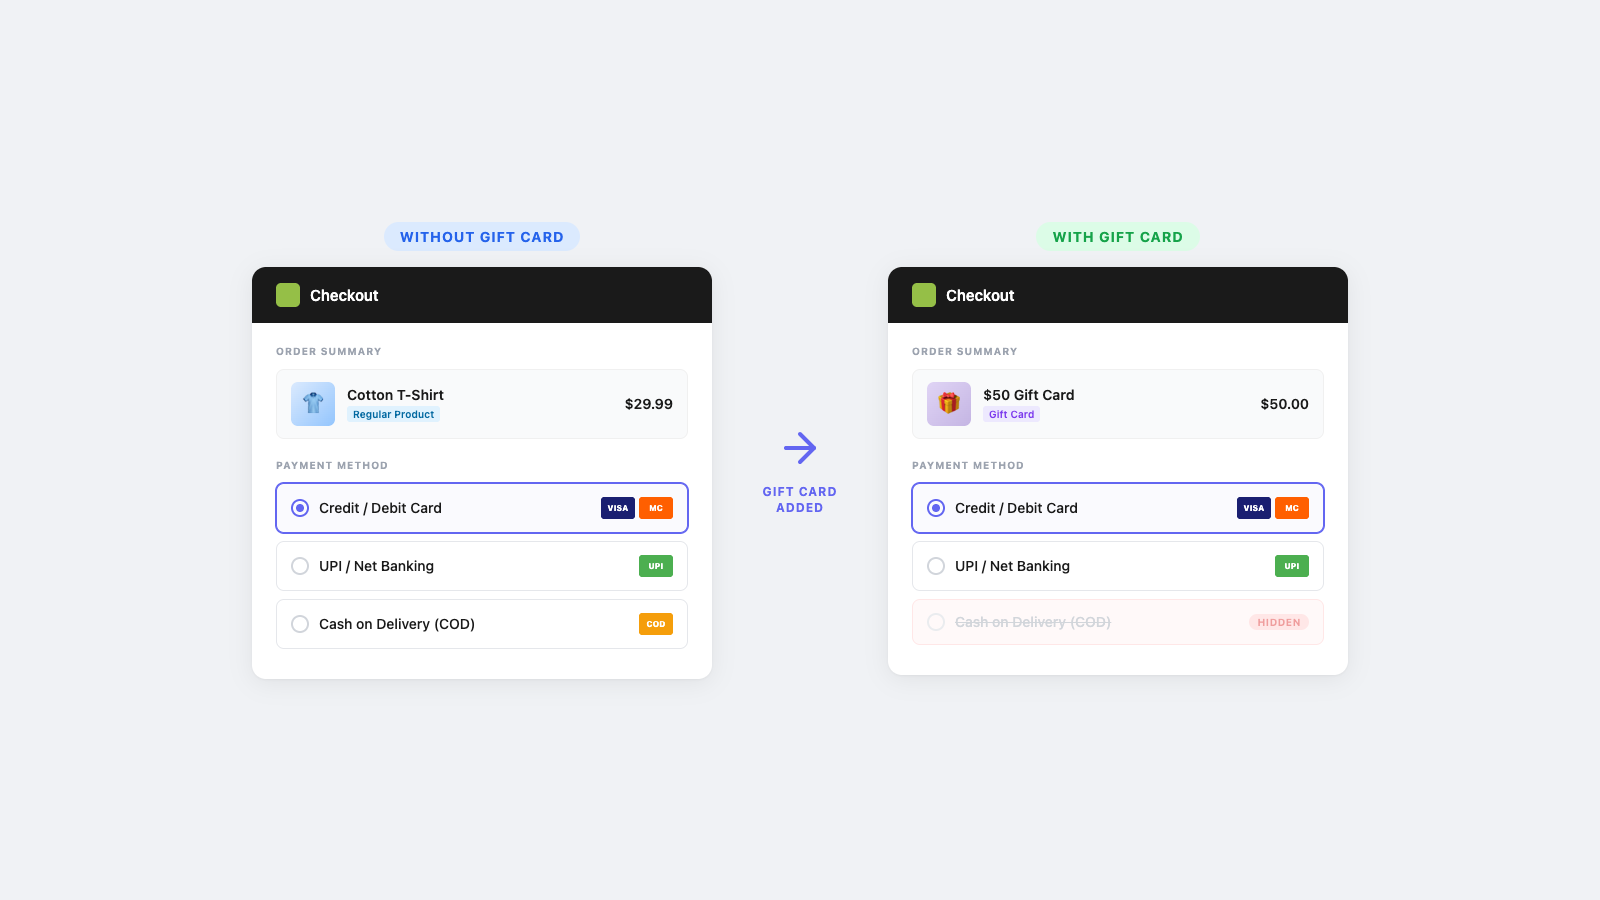
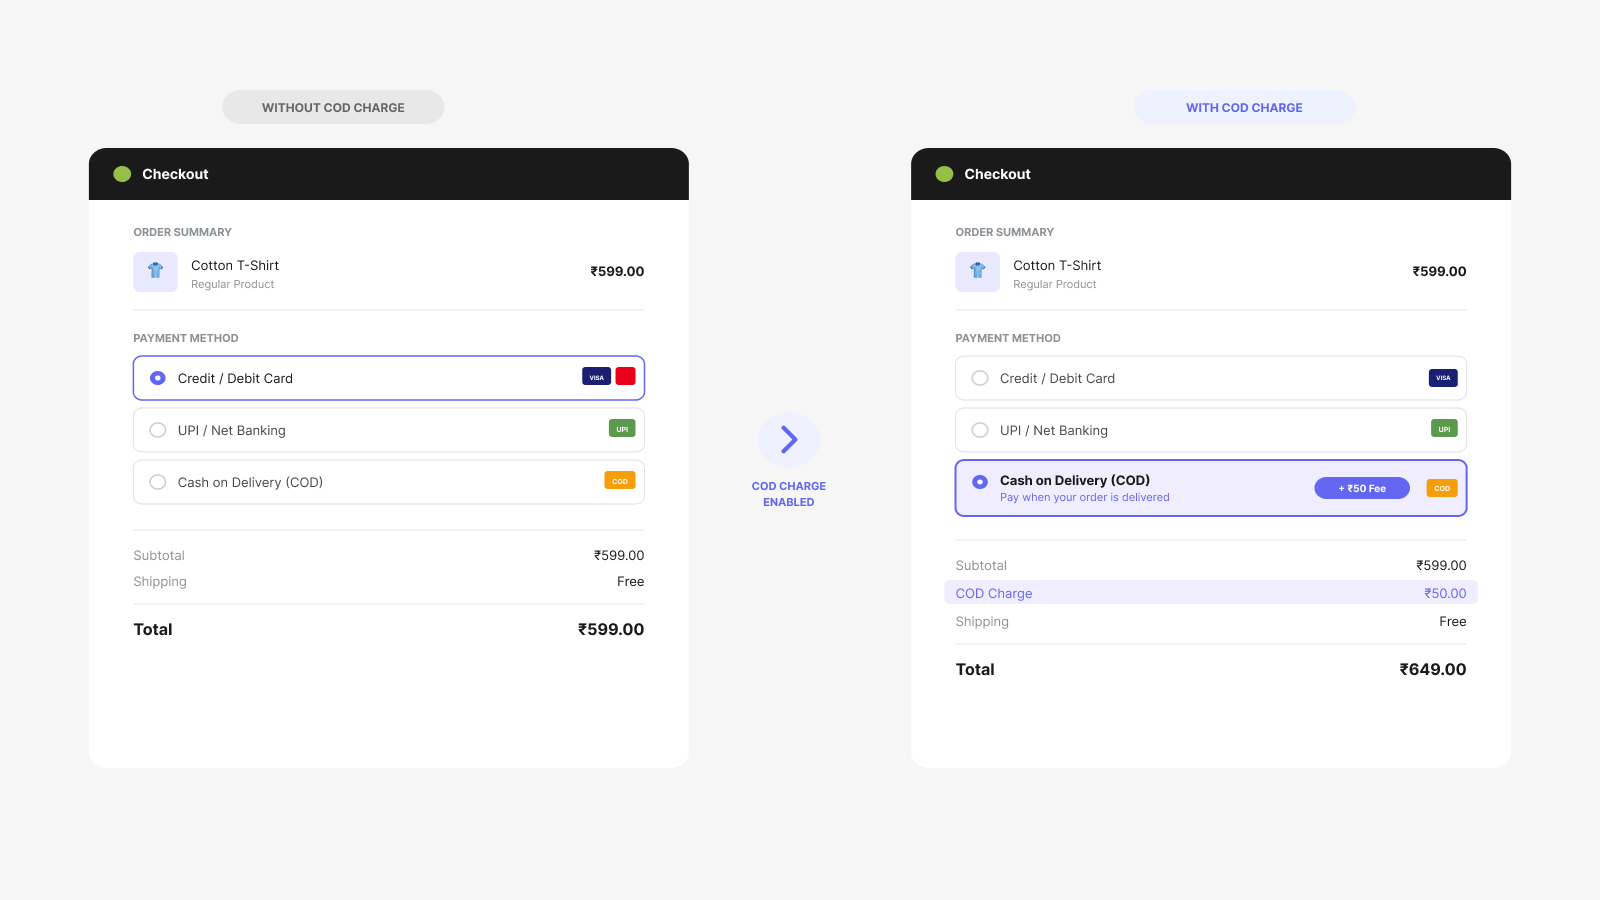
Rename 'COD Charge' to 'COD Fee Manager'
Rebrand the app from "COD Charge" to "COD Fee Manager" across UI, server routes, extensions, tests, and manifests. Updated visible strings (titles, banners, labels, messages), extension and app TOML names, activation script, and payment-function output (uses “COD Fee”). Webhook and findFunction logic were made backward-compatible by checking for both the new and old titles. Replaced/added image assets (feature image removed, new feature image and logo added) and updated screenshots.

diff --git a/app/routes/app._index.tsx b/app/routes/app._index.tsx
@@ -276,7 +276,7 @@ async function ensureCODProduct(admin: any, chargeAmount: number) {
 	const createResponse = await admin.graphql(PRODUCT_CREATE, {
 		variables: {
 			product: {
-				title: 'COD Charge',
+				title: 'COD Fee Manager',
 				productType: 'fee',
 				status: 'ACTIVE',
 			},
@@ -288,7 +288,7 @@ async function ensureCODProduct(admin: any, chargeAmount: number) {
 	if (!product) {
 		const errors = createData.data?.productCreate?.userErrors ?? [];
 		throw new Error(
-			`Failed to create COD Charge product: ${errors.map((e: any) => e.message).join(', ')}`,
+			`Failed to create COD Fee Manager product: ${errors.map((e: any) => e.message).join(', ')}`,
 		);
 	}
 
@@ -377,7 +377,7 @@ async function findFunction(admin: any) {
 	const functionsResponse = await admin.graphql(SHOPIFY_FUNCTIONS_QUERY);
 	const functionsData = await functionsResponse.json();
 	const functions = functionsData.data?.shopifyFunctions?.nodes ?? [];
-	return functions.find((fn: any) => fn.title === 'COD Charge');
+	return functions.find((fn: any) => fn.title === 'COD Fee Manager' || fn.title === 'COD Charge');
 }
 
 async function findExistingCustomization(admin: any, functionId: string) {
@@ -400,7 +400,7 @@ export const loader = async ({ request }: LoaderFunctionArgs) => {
 			enabled: false,
 			amount: '',
 			message:
-				'Could not find the COD Charge function. Make sure the extension is deployed.',
+				'Could not find the COD Fee Manager function. Make sure the extension is deployed.',
 		});
 	}
 
@@ -412,7 +412,7 @@ export const loader = async ({ request }: LoaderFunctionArgs) => {
 			enabled: false,
 			amount: '',
 			message:
-				'COD Charge has not been activated yet. Set a charge amount and click Activate.',
+				'COD Fee Manager has not been activated yet. Set a charge amount and click Activate.',
 		});
 	}
 
@@ -427,7 +427,7 @@ export const loader = async ({ request }: LoaderFunctionArgs) => {
 			enabled: false,
 			amount,
 			message:
-				'COD Charge exists but is currently disabled. Click Activate to enable it.',
+				'COD Fee Manager exists but is currently disabled. Click Activate to enable it.',
 		});
 	}
 
@@ -442,7 +442,7 @@ export const loader = async ({ request }: LoaderFunctionArgs) => {
 				status: 'active' as const,
 				enabled: true,
 				amount,
-				message: `COD Charge is active but the product was deleted. Click Save to recreate it.`,
+				message: `COD Fee Manager is active but the product was deleted. Click Save to recreate it.`,
 				productMissing: true,
 			});
 		}
@@ -452,7 +452,7 @@ export const loader = async ({ request }: LoaderFunctionArgs) => {
 		status: 'active' as const,
 		enabled: true,
 		amount,
-		message: `COD Charge is active. ₹${amount} will be shown at checkout and automatically added to orders placed with Cash on Delivery.`,
+		message: `COD Fee Manager is active. ₹${amount} will be shown at checkout and automatically added to orders placed with Cash on Delivery.`,
 	});
 };
 
@@ -470,7 +470,7 @@ export const action = async ({ request }: ActionFunctionArgs) => {
 				enabled: false,
 				amount: '',
 				message:
-					'Could not find the COD Charge function. Deploy the extension first.',
+					'Could not find the COD Fee Manager function. Deploy the extension first.',
 			});
 		}
 
@@ -496,7 +496,7 @@ export const action = async ({ request }: ActionFunctionArgs) => {
 						variables: {
 							paymentCustomization: {
 								functionId: ourFunction.id,
-								title: 'COD Charge',
+								title: 'COD Fee Manager',
 								enabled: true,
 								metafields: [
 									{
@@ -525,7 +525,7 @@ export const action = async ({ request }: ActionFunctionArgs) => {
 					status: 'active' as const,
 					enabled: true,
 					amount: String(chargeAmount),
-					message: `COD Charge activated successfully. Charge: ₹${chargeAmount}`,
+					message: `COD Fee Manager activated successfully. Charge: ₹${chargeAmount}`,
 				});
 			}
 
@@ -560,7 +560,7 @@ export const action = async ({ request }: ActionFunctionArgs) => {
 				status: 'active' as const,
 				enabled: true,
 				amount: String(chargeAmount),
-				message: `COD Charge updated and enabled. Charge: ₹${chargeAmount}`,
+				message: `COD Fee Manager updated and enabled. Charge: ₹${chargeAmount}`,
 			});
 		}
 
@@ -593,7 +593,7 @@ export const action = async ({ request }: ActionFunctionArgs) => {
 				status: 'disabled' as const,
 				enabled: false,
 				amount: amountMetafield?.value ?? '',
-				message: 'COD Charge has been disabled.',
+				message: 'COD Fee Manager has been disabled.',
 			});
 		}
 
@@ -658,7 +658,7 @@ export default function Index() {
 
 	return (
 		<Page>
-			<TitleBar title="COD Charge" />
+			<TitleBar title="COD Fee Manager" />
 			<BlockStack gap="500">
 				<Layout>
 					<Layout.Section>
@@ -666,7 +666,7 @@ export default function Index() {
 							<BlockStack gap="400">
 								<InlineStack align="space-between" blockAlign="center">
 									<Text as="h2" variant="headingMd">
-										COD Charge Settings
+										COD Fee Manager Settings
 									</Text>
 									<Badge
 										tone={
@@ -704,7 +704,7 @@ export default function Index() {
 								{status !== 'not_deployed' && (
 									<FormLayout>
 										<TextField
-											label="COD Charge Amount (₹)"
+											label="COD Fee Amount (₹)"
 											type="number"
 											value={amount}
 											onChange={handleAmountChange}

diff --git a/app/routes/webhooks.orders.create.tsx b/app/routes/webhooks.orders.create.tsx
@@ -154,11 +154,11 @@ export const action = async ({ request }: ActionFunctionArgs) => {
 
 		const lineItems = orderData.data?.order?.lineItems?.nodes ?? [];
 		const alreadyHasCodProduct = lineItems.some(
-			(item: any) => item.title === 'COD Charge',
+			(item: any) => item.title === 'COD Fee Manager' || item.title === 'COD Charge',
 		);
 		if (alreadyHasCodProduct) {
 			console.log(
-				`[COD-WEBHOOK] COD Charge product already in order line items, tagging only`,
+				`[COD-WEBHOOK] COD fee product already in order line items, tagging only`,
 			);
 			try {
 				await admin.graphql(TAGS_ADD, {
@@ -183,12 +183,12 @@ export const action = async ({ request }: ActionFunctionArgs) => {
 		);
 
 		const codCustomization = customizations.find(
-			(c: any) => c.title === 'COD Charge' && c.enabled,
+			(c: any) => (c.title === 'COD Fee Manager' || c.title === 'COD Charge') && c.enabled,
 		);
 
 		if (!codCustomization) {
 			console.log(
-				'[COD-WEBHOOK] BAIL: No active COD Charge customization found',
+				'[COD-WEBHOOK] BAIL: No active COD Fee Manager customization found',
 			);
 			return new Response();
 		}
@@ -259,7 +259,7 @@ export const action = async ({ request }: ActionFunctionArgs) => {
 		console.log('[COD-WEBHOOK] Step 4: Adding COD charge line item...');
 		const addItemVars = {
 			id: calculatedOrderId,
-			title: 'COD Charge',
+			title: 'COD Fee',
 			quantity: 1,
 			price: {
 				amount: String(chargeAmount),

diff --git a/extensions/cod-charge/src/run.test.js b/extensions/cod-charge/src/run.test.js
@@ -13,7 +13,7 @@ function makeInput({ amount, paymentMethods }) {
   };
 }
 
-describe("COD Charge", () => {
+describe("COD Fee Manager", () => {
   it("renames COD with the charge amount", () => {
     const result = run(makeInput({ amount: 50 }));
 
@@ -22,7 +22,7 @@ describe("COD Charge", () => {
         {
           rename: {
             paymentMethodId: "2",
-            name: "Cash on Delivery (+ ₹50 COD Charge)",
+            name: "Cash on Delivery (+ ₹50 COD Fee)",
           },
         },
       ],
@@ -37,7 +37,7 @@ describe("COD Charge", () => {
         {
           rename: {
             paymentMethodId: "2",
-            name: "Cash on Delivery (+ ₹49.99 COD Charge)",
+            name: "Cash on Delivery (+ ₹49.99 COD Fee)",
           },
         },
       ],
@@ -87,7 +87,7 @@ describe("COD Charge", () => {
         {
           rename: {
             paymentMethodId: "2",
-            name: "CASH ON DELIVERY (+ ₹50 COD Charge)",
+            name: "CASH ON DELIVERY (+ ₹50 COD Fee)",
           },
         },
       ],
@@ -110,7 +110,7 @@ describe("COD Charge", () => {
         {
           rename: {
             paymentMethodId: "2",
-            name: "COD (+ ₹100 COD Charge)",
+            name: "COD (+ ₹100 COD Fee)",
           },
         },
       ],

diff --git a/scripts/activate.js b/scripts/activate.js
@@ -1,7 +1,7 @@
 #!/usr/bin/env node
 
 /**
- * One-time script to activate the COD Charge payment customization.
+ * One-time script to activate the COD Fee Manager payment customization.
  *
  * Usage:
  *   SHOPIFY_ACCESS_TOKEN=<token> SHOPIFY_STORE=<store>.myshopify.com COD_AMOUNT=50 node scripts/activate.js
@@ -39,7 +39,7 @@ async function main() {
   console.log(`\nConnecting to ${STORE}...\n`);
 
   // Step 1: Find the function
-  console.log("Step 1: Finding the COD Charge function...");
+  console.log("Step 1: Finding the COD Fee Manager function...");
   const functionsResult = await graphql(`{
     shopifyFunctions(first: 25, apiType: "payment_customization") {
       nodes {
@@ -52,11 +52,11 @@ async function main() {
 
   const functions = functionsResult.data?.shopifyFunctions?.nodes ?? [];
   const ourFunction = functions.find(
-    (fn) => fn.title === "COD Charge",
+    (fn) => fn.title === "COD Fee Manager" || fn.title === "COD Charge",
   );
 
   if (!ourFunction) {
-    console.error("ERROR: Could not find the COD Charge function.");
+    console.error("ERROR: Could not find the COD Fee Manager function.");
     console.error("Available functions:", functions.map((f) => f.title));
     process.exit(1);
   }
@@ -133,7 +133,7 @@ async function main() {
     {
       input: {
         functionId: ourFunction.id,
-        title: "COD Charge",
+        title: "COD Fee Manager",
         enabled: true,
         metafields: [
           {

diff --git a/app/routes/privacy.tsx b/app/routes/privacy.tsx
@@ -4,13 +4,13 @@ export default function PrivacyPolicy() {
 			<div style={styles.container}>
 				<h1 style={styles.title}>Privacy Policy</h1>
 				<p style={styles.subtitle}>
-					<strong>COD Charge</strong> — operated by Mellow Muffin Apps
+					<strong>COD Fee Manager</strong> — operated by Mellow Muffin Apps
 				</p>
 				<p style={styles.updated}>Last updated: March 9, 2026</p>
 
 				<Section title="1. Introduction">
 					<p>
-						This Privacy Policy describes how COD Charge (&ldquo;the
+						This Privacy Policy describes how COD Fee Manager (&ldquo;the
 						App&rdquo;), developed by Mellow Muffin Apps (&ldquo;we&rdquo;,
 						&ldquo;us&rdquo;, or &ldquo;our&rdquo;), collects, uses, and
 						discloses information when you install and use the App through the

diff --git a/extensions/cod-charge-ui/src/Checkout.jsx b/extensions/cod-charge-ui/src/Checkout.jsx
@@ -76,9 +76,9 @@ function Extension() {
     chargeAmount % 1 === 0 ? chargeAmount.toFixed(0) : chargeAmount.toFixed(2);
 
   return (
-    <Banner status="info" title="COD Charge Applied">
+    <Banner status="info" title="COD Fee Applied">
       <Text>
-        A COD handling fee of ₹{displayAmount} has been added to your order.
+        A COD fee of ₹{displayAmount} has been added to your order.
       </Text>
     </Banner>
   );

diff --git a/app/routes/_index/route.tsx b/app/routes/_index/route.tsx
@@ -22,7 +22,7 @@ export default function App() {
   return (
     <div className={styles.index}>
       <div className={styles.content}>
-        <h1 className={styles.heading}>COD Charge</h1>
+        <h1 className={styles.heading}>COD Fee Manager</h1>
         <p className={styles.text}>
           Add a configurable Cash on Delivery charge that is displayed to
           customers at checkout.

diff --git a/extensions/cod-charge/src/run.js b/extensions/cod-charge/src/run.js
@@ -45,7 +45,7 @@ export function run(input) {
       {
         rename: {
           paymentMethodId: codMethod.id,
-          name: `${codMethod.name} (+ ₹${displayAmount} COD Charge)`,
+          name: `${codMethod.name} (+ ₹${displayAmount} COD Fee)`,
         },
       },
     ],